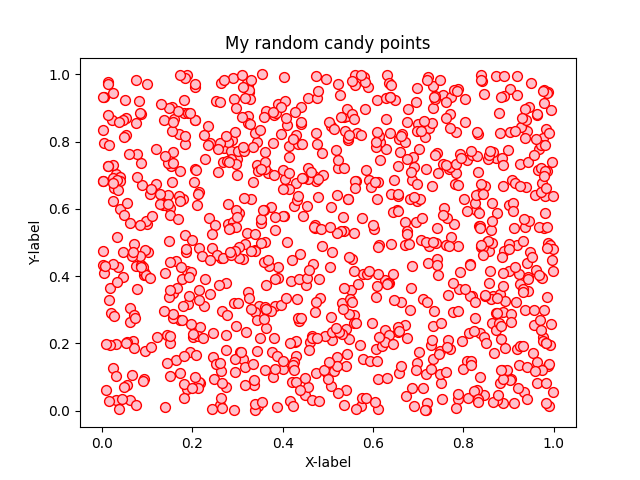
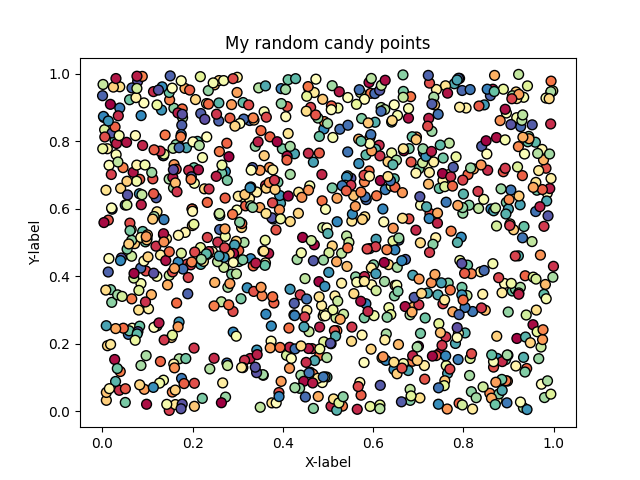
I changed the way to plot. Ex7. problem_2

diff --git a/Exercise_7_problem_2.py b/Exercise_7_problem_2.py
@@ -19,8 +19,9 @@
 # YOUR CODE HERE 1 to read the data into data and parse dates
 import numpy as np
 import pandas as pd
-#read the csv file into data. "fp" is variable of csv file.
+#"fp" is variable of csv file.
 fp = r'data/helsinki-vantaa.csv'
+#read the csv file into data. 
 data = pd.read_csv(fp,parse_dates=['DATE'], index_col='DATE')
 
 # This test print should print first five rows
@@ -36,7 +37,8 @@ print(len(data))
 # - Store the selection in a new variable `selection`
 
 # YOUR CODE HERE 2
-selection = data.loc[(data.index >= '19880101') & (data.index < '20181231')]
+# "selection" is the extracted data in data.
+selection = data.loc[(data.index >= '19880101') & (data.index <= '20181231')]
 # Check that the data was read in correctly:
 selection.head()
 
@@ -56,12 +58,25 @@ print("Number of rows:", len(selection))
 # 
 
 # YOUR CODE HERE 3
+import matplotlib.pyplot as plt
+thirty_years_temps = selection['TEMP_C']
+#create plot
+ax=thirty_years_temps.plot(linestyle="solid",color="black",marker="o",markersize=3,figsize=(14,6))
+#create title
+ax.set_title('Helsinki-Vantaa Airport')
+#create xlabel
+ax.set_xlabel('Time')
+#create ylabel
+ax.set_ylabel('Temperature(Celsius)')
+ax.grid()
 
 # Set output file name
-outputfp = ""
+outputfp = "temp_line_plot.png"
 
 # Save plot as image
 # YOUR CODE HERE 4
+#Save the plot as png file
+plt.savefig(outputfp)
 
 import os
 

diff --git a/Exercise_7_problem_1.py b/Exercise_7_problem_1.py
@@ -64,9 +64,9 @@ assert len(colors) == 1000, "There should be 1000 random numbers for colors"
 # YOUR CODE HERE 3
 import matplotlib.pyplot as plt
 # "cm is a variable of colormap"
-cm = plt.cm.get_cmap('RdYlBu')
+cm = plt.cm.get_cmap('Spectral')
 #input scatter plot with size, color, edgecolor, and cmap
-plt.scatter(random_numbersx,random_numbersy,s=50, c="pink",edgecolors="red",cmap=cm)
+plt.scatter(random_numbersx,random_numbersy,s=50, c=colors,edgecolors="black",cmap=cm)
 # Add labels and title
 # YOUR CODE HERE 4
 #create title
